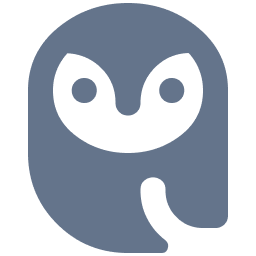
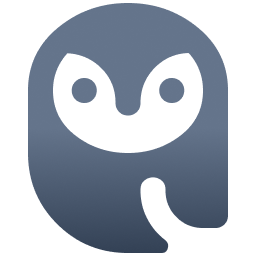
chore(seo), docs: update brand assets; update API spec

Changed region(s): [[0.125, 0.7188, 0.6562, 1.0], [0.625, 0.7188, 0.9062, 0.9062]]

diff --git a/content/api-spec.md b/content/api-spec.md
@@ -202,7 +202,7 @@ Uploads and updates the authenticated user's profile image. Replaces the existin
 
 > **DELETE** `/api/user`
 
-Permanently deletes the authenticated user's account. Also deletes any organizations where the user is the sole owner.
+Deletes the authenticated user's account. Also deletes any organizations where the user is the sole owner. This action cannot be undone.
 
 **Response:**
 
@@ -410,7 +410,7 @@ Removes a member from the organization. Members can remove themselves (leave the
 
 > **POST** `/api/orgs/{org}/invite/create`
 
-Creates an invitation link for new members to join the organization. Only owners and admins can create invitations. Invitations expire after 12 hours.
+Creates an invitation link for new members to join the organization. Only owners and admins can create invitations.
 
 **Route Parameters**:
 
@@ -441,7 +441,7 @@ Creates an invitation link for new members to join the organization. Only owners
 
 > **POST** `/api/orgs/{org}/invite/accept`
 
-Accepts an invitation to join an organization. Adds the authenticated user as a member with the member role.
+Accepts an invitation to join an organization. Adds the authenticated user to the organization with the member role.
 
 **Route Parameters**:
 
@@ -747,7 +747,7 @@ Permanently deletes a project. Only project owners can perform this action. All 
 
 > **POST** `/api/projects/{project}/members`
 
-Adds a new member to a project. Only project owners and admins can add members. The user must already be a member of the organization. Users can only be added as admins or members (the owner role is assigned during project creation only).
+Adds a new member to a project. Only project owners and admins can add members. The user must already be a member of the organization. Users can only be added as members or admins (the owner role is assigned during project creation only).
 
 **Route Parameters**:
 
@@ -889,7 +889,7 @@ Retrieves all secrets for a project with their decrypted values. All project mem
 
 > **POST** `/api/projects/{project}/secrets`
 
-Creates a new secret in a project. Only project owners and admins can create secrets. Secret keys must be uppercase with numbers and underscores only.
+Creates a new secret in a project. Only project owners and admins can create secrets.
 
 **Route Parameters**:
 
@@ -944,7 +944,7 @@ Creates a new secret in a project. Only project owners and admins can create sec
 
 > **PUT** `/api/projects/{project}/secrets/{secret}`
 
-Updates a secret's description or environment values. Only project owners and admins can update secrets. Values are upserted (created if not exist, updated if exist).
+Updates a secret's description or environment values. Only project owners and admins can update secrets.
 
 **Route Parameters**:
 
